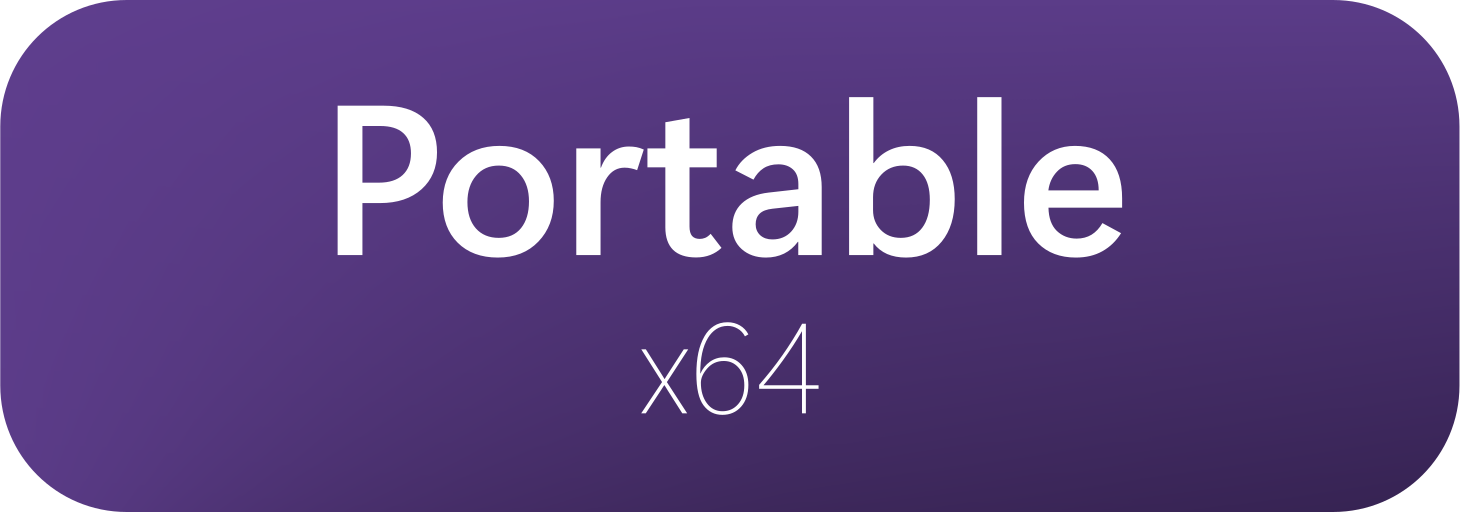
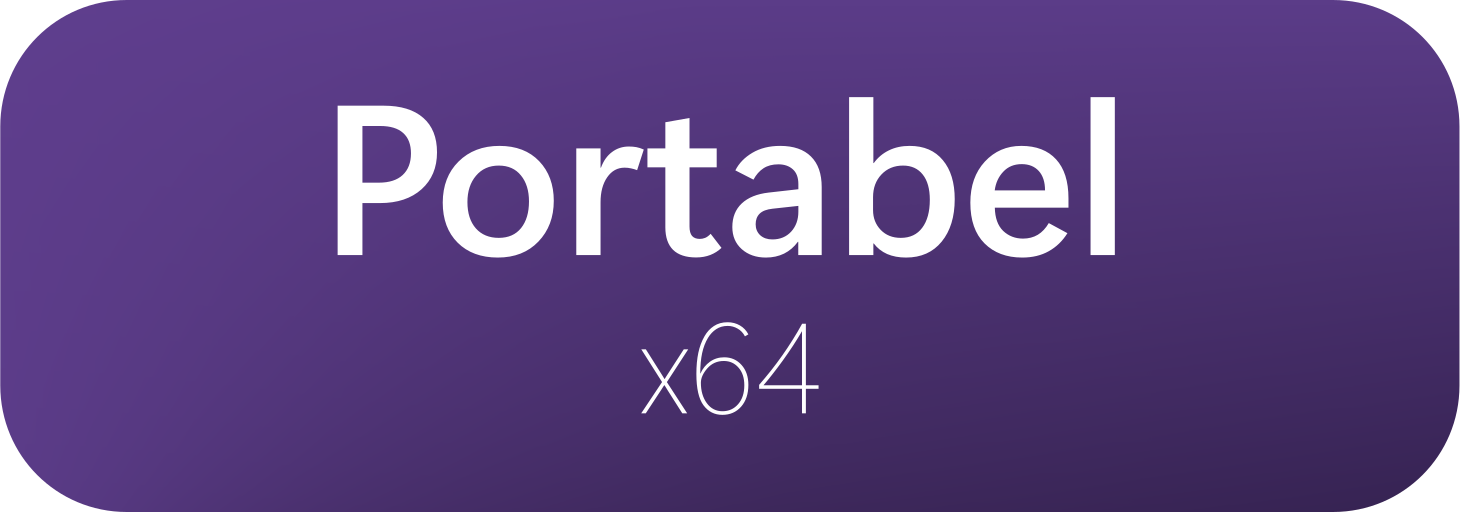
Made german the main language

Changed region(s): [[0.6473, 0.1875, 0.7705, 0.5]]

diff --git a/index.md b/index.md
@@ -1,65 +1,64 @@
 # ![ViscaCamLink](assets/logo-banner.png)
 
-ViscaCamLink is a WPF desktop application that can control a [PTZ camera](https://de.m.wikipedia.org/wiki/PTZ-Kamera) on the same network using the VISCA protocol.
+ViscaCamLink ist eine WPF-Desktopanwendung, die eine [PTZ Kamera](https://de.m.wikipedia.org/wiki/PTZ-Kamera) im selben Netzwerk über das VISCA Protokoll steuern kann.
 
-🇩🇪 | 🇦🇹 | 🇨🇭 – [In Deutsch lesen](index-de.md)
+ [Read in english](index.md)
 
 ## Download
 
 [<img height="100" src="assets/button_download_windows.png">](https://github.com/FreakyTorial/ViscaCamLink/releases/latest/download/ViscaCamLink-Installer-x64.msi) [<img height="100" src="assets/button_download_portable.png">](https://github.com/FreakyTorial/ViscaCamLink/releases/latest/download/ViscaCamLink-Portable.zip)
 
-## Features
+## Funktionen
 
-### Presets
+### Voreinstellungen
 
-* Save and load up to ten positions (including zoom) as presets
-* Global hotkey for each preset (currently assigned to numpad 0-9)
+* Speichern und laden von bis zu zehn Positionen (inklusive Zoom) als Voreinstellung
+* Globale Tastenbelegung (Hotkeys) für jede Voreinstellung (derzeit festgelegt auf Numpad 0-9)
 
-### Control
+### Steuerung
 
-* Free movement in any direction (via button)
-* 18-step adjustment of movement speed
-* Reset to initial position
+* Freies Bewegen in jede Richtung (per Schalter)
+* 18-stufige Anpassung der Bewegungsgeschwindigkeit
+* Zurücksetzen in Ausgangsposition
 
 ### Zoom
 
-* Freely zooming in and out
-* 7-step adjustment of zoom speed
+* Freies rein- und rauszoomen
+* 7-stufige Anpassung der Zoom-Geschwindigkeit
 
-### More
+### Weitere
 
-* User-specific saving of layout settings
-* Full Windows scaling support
+* Benutzerspezifische Speicherung des Oberflächen-Layouts
+* Volle Unterstützung der Windows-Skalierung
 
 ## Installation
 
-### Portable 
+### Portabel 
 
-Place the execution file (.exe) in any location where the executing user has permissions. Then start it - e.g. by double-clicking or using the context menu.
+Die Ausführungsdatei (.exe) an einen beliebigen Ort legen, an dem der auszuführende Benutzer Berechtigungen hat. Danach starten - z.B. durch einen Doppelklick oder das Kontextmenü.
 
-Since .NET 6 is required for the application, a prompt will appear if this is not yet pre-installed. Simply follow this prompt and restart the application if necessary ([Manual installation - .NET Desktop Runtime](https://dotnet.microsoft.com/en-us/download/dotnet/6.0)).
+Da für die Anwendung .NET 6 benötigt wird, kommt wenn dies noch nicht vorinstalliert ist, nun eine Aufforderung dazu. Dieser einfach folgen und ggf. die Anwendung erneut starten ([Manuelle Installation - .NET Desktop Runtime](https://dotnet.microsoft.com/en-us/download/dotnet/6.0)).
 
-After that ViscaCamLink is ready for use.
+Danach ist ViscaCamLink bereit für die Benutzung.
 
-## Usage 
+## Benutzung 
 
-After the first start, the IP of the camera and the port for the VISCA protocol (if different from the default) must be typed in (How to get this information is described in the user manual of the camera).
+Nach dem ersten Start muss die IP der Kamera und der Port für das VISCA Protokoll (wenn vom Standard abweichend) hinterlegt werden. Wie Sie an diese Informationen herankommen, beschreibt das Benutzerhandbuch der Kamera.
 
-After that, the connection can be established using the corresponding button in the address bar. Whether this was successful is shown in the status display below.
+Danach kann die Verbindung über den entsprechenden Schalter in der Adresszeile aufgebaut werden. Ob dies erfolgreich war, zeigt die Status-Anzeige darunter.
 
 ## Roadmap 
 
-* Customizable key assignment
-* Customizable name of presets
-* Additional control with mouse
-* Installation via setup
-* Support of communication via serial port
+* Anpassbare Tastenbelegung
+* Anpassbare Bezeichnung von Voreinstellungen
+* Zusätzliche Steuerung mit Maus
+* Installation per Setup
+* Unterstützung der Kommunikation über seriellen Anschluss
 
-## License
+## Lizenz
 
 [Apache 2.0](LICENSE)
 
-This application is based on the demo code [CameraControl](https://github.com/jskeet/DemoCode/tree/main/CameraControl) (by jskeet)
+Diese Applikation basiert auf dem Demo-Quelltext [CameraControl](https://github.com/jskeet/DemoCode/tree/main/CameraControl) (von jskeet)
 
-Icons from flaticon.com/uicons
-
+Icons von flaticon.com/de/uicons

diff --git a/index-en.md b/index-en.md
@@ -1,0 +1,67 @@
+---
+permalink: /en/
+---
+
+# ![ViscaCamLink](assets/banner.png)
+
+ViscaCamLink is a WPF desktop application that can control a [PTZ camera](https://de.m.wikipedia.org/wiki/PTZ-Kamera) on the same network using the VISCA protocol.
+
+## Download
+
+[<img height="100" src="assets/button_download_windows.png">](https://github.com/FreakyTorial/ViscaCamLink/releases/latest/download/ViscaCamLink-Installer-x64.msi) [<img height="100" src="assets/button_download_portable-en.png">](https://github.com/FreakyTorial/ViscaCamLink/releases/latest/download/ViscaCamLink-Portable.zip)
+
+## Features
+
+### Presets
+
+* Save and load up to ten positions (including zoom) as presets
+* Global hotkey for each preset (currently assigned to numpad 0-9)
+
+### Control
+
+* Free movement in any direction (via button)
+* 18-step adjustment of movement speed
+* Reset to initial position
+
+### Zoom
+
+* Freely zooming in and out
+* 7-step adjustment of zoom speed
+
+### More
+
+* User-specific saving of layout settings
+* Full Windows scaling support
+
+## Installation
+
+### Portable 
+
+Place the execution file (.exe) in any location where the executing user has permissions. Then start it - e.g. by double-clicking or using the context menu.
+
+Since .NET 6 is required for the application, a prompt will appear if this is not yet pre-installed. Simply follow this prompt and restart the application if necessary ([Manual installation - .NET Desktop Runtime](https://dotnet.microsoft.com/en-us/download/dotnet/6.0)).
+
+After that ViscaCamLink is ready for use.
+
+## Usage 
+
+After the first start, the IP of the camera and the port for the VISCA protocol (if different from the default) must be typed in (How to get this information is described in the user manual of the camera).
+
+After that, the connection can be established using the corresponding button in the address bar. Whether this was successful is shown in the status display below.
+
+## Roadmap 
+
+* Customizable key assignment
+* Customizable name of presets
+* Additional control with mouse
+* Installation via setup
+* Support of communication via serial port
+
+## License
+
+[Apache 2.0](LICENSE)
+
+This application is based on the demo code [CameraControl](https://github.com/jskeet/DemoCode/tree/main/CameraControl) (by jskeet)
+
+Icons from flaticon.com/uicons
+

diff --git a/pages/changelog-en.md b/pages/changelog-en.md
@@ -1,5 +1,5 @@
 ---
-permalink: /de/changelog/
+permalink: /en/changelog/
 ---
 
 ## 0.1.3
